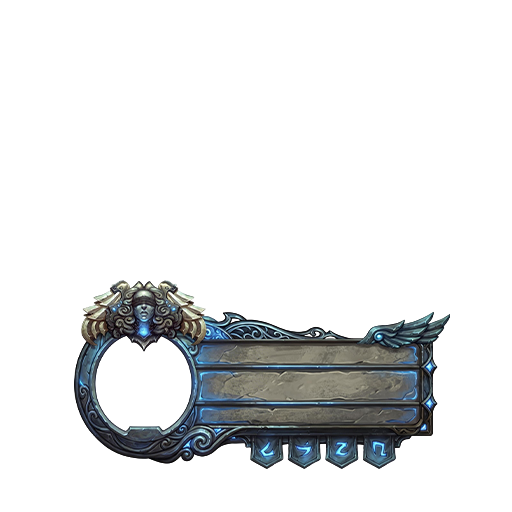
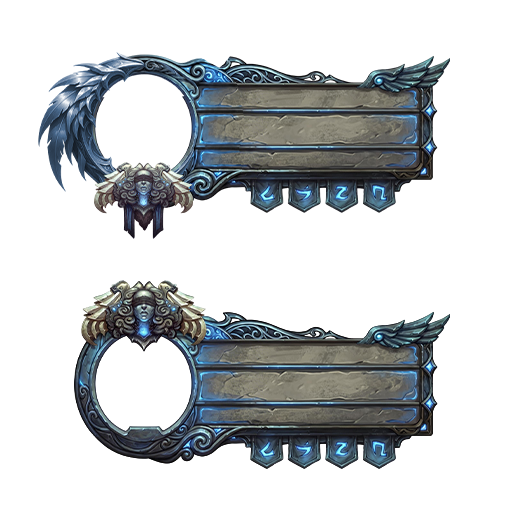
style: Update version to 1.3.9 and add new priest frames

Changed region(s): [[0.0625, 0.0938, 0.875, 0.4688]]

diff --git a/README.md b/README.md
@@ -1,7 +1,7 @@
 # EPF Custom Skins
 
 [![License: CC BY-NC-SA 4.0](https://img.shields.io/badge/License-CC%20BY--NC--SA%204.0-blue.svg)](https://creativecommons.org/licenses/by-nc-sa/4.0/)
-[![Version](https://img.shields.io/badge/Version-1.3.8-informational)](ElitePlayerFrame_Enhanced_CustomSkins.toc)
+[![Version](https://img.shields.io/badge/Version-1.3.9-informational)](ElitePlayerFrame_Enhanced_CustomSkins.toc)
 [![WoW](https://img.shields.io/badge/WoW-12.0.7%20(MN)-orange)](https://worldofwarcraft.blizzard.com/)
 [![Lua](https://img.shields.io/badge/Lua-5.x-blue)](https://www.lua.org/)
 

diff --git a/CHANGELOG.md b/CHANGELOG.md
@@ -4,6 +4,12 @@ All notable changes to **EPF Custom Skins** are documented in this file.
 
 The format is based on [Keep a Changelog](https://keepachangelog.com/en/1.1.0/), and this project adheres to [Semantic Versioning](https://semver.org/spec/v2.0.0.html).
 
+## [1.3.9] - 2026-08-TBD
+
+### Added
+
+- Added new priest frames
+
 ## [1.3.8] - 2026-08-05
 
 ### Added
